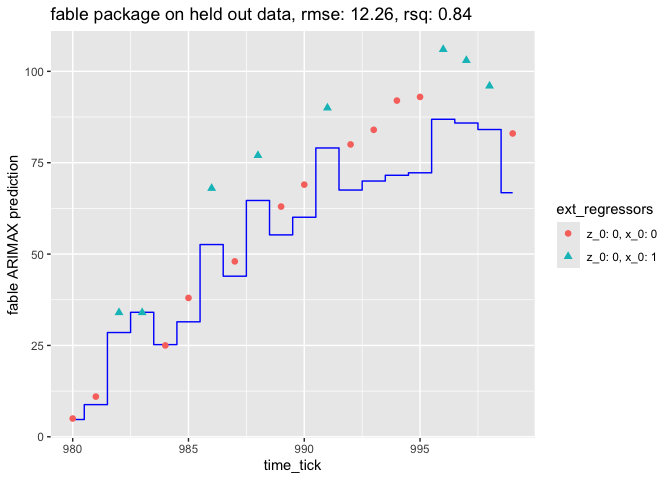
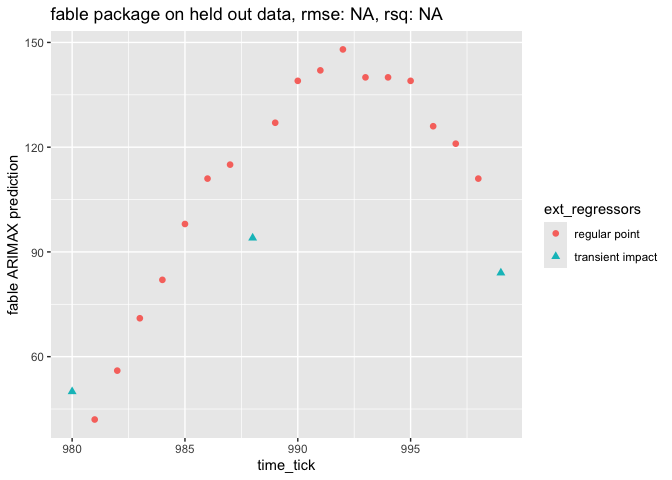
update R code

diff --git a/TimeSeries/ts_example.md b/TimeSeries/ts_example.md
@@ -29,29 +29,29 @@ model_specification <- fromJSON("generating_params.json")
 model_specification
 ```
 
-    ## $b_auto_0
-    ## [1] 1.280413
+    ## $beta_auto_intercept
+    ## [1] 2.127637
     ## 
-    ## $b_imp_0
+    ## $effect_shift
     ## [1] -10.4
     ## 
-    ## $b_auto
-    ## [1]  1.975377 -1.000000
+    ## $beta_auto
+    ## [1]  1.972723 -1.000000
     ## 
-    ## $b_z
-    ## [1] 14.2
+    ## $beta_durable
+    ## [1] 9.2
     ## 
-    ## $b_x
-    ## [1] 16.1
+    ## $beta_transient
+    ## [1] 19.1
     ## 
     ## $generating_lags
     ## [1] 1 2
     ## 
-    ## $modeling_lags
-    ## [1] 1 2
-    ## 
     ## $error_scale
     ## [1] 3.2
+    ## 
+    ## $n_step
+    ## [1] 1000
 
 What we hope is to find `b_x_dur ~ b_z` and `b_x_imp ~ b_x`.
 
@@ -168,15 +168,17 @@ of these regressors is enough for it to model the entire system
 # https://otexts.com/fpp3/regarima.html
 d_train <- read.csv('d_train.csv', stringsAsFactors = FALSE)
 d_test <- read.csv('d_test.csv', stringsAsFactors = FALSE)
+```
 
+``` r
 fable_model <- (
   d_train %>%
     tsibble(index=time_tick) %>%
     model(
       ARIMA(y ~ 
               1  # turn off must specify constant warning
-            + z_0   # external regressor (can also use xreg(z_0))
-            + x_0   # external regressor (can also use xreg(x_0))
+            + x_durable_0   # external regressor (can also use xreg(x_durable_0))
+            + x_transient_0   # external regressor (can also use xreg(x_transient_0))
             + pdq(2, 0, 2)   # AR=MA=2, I=0
             + PDQ(0, 0, 0)   # turn off seasonality (help(ARIMA))
             )
@@ -188,51 +190,51 @@ coef(fable_model)
     ## # A tibble: 7 × 6
     ##   .model                            term  estimate std.error statistic   p.value
     ##   <chr>                             <chr>    <dbl>     <dbl>     <dbl>     <dbl>
-    ## 1 ARIMA(y ~ 1 + z_0 + x_0 + pdq(2,… ar1     1.92      0.0114  168.     0        
-    ## 2 ARIMA(y ~ 1 + z_0 + x_0 + pdq(2,… ar2    -0.954     0.0112  -85.2    0        
-    ## 3 ARIMA(y ~ 1 + z_0 + x_0 + pdq(2,… ma1    -0.996     0.0321  -31.0    9.55e-148
-    ## 4 ARIMA(y ~ 1 + z_0 + x_0 + pdq(2,… ma2     0.319     0.0323    9.88   5.37e- 22
-    ## 5 ARIMA(y ~ 1 + z_0 + x_0 + pdq(2,… z_0    -0.0135    1.05     -0.0128 9.90e-  1
-    ## 6 ARIMA(y ~ 1 + z_0 + x_0 + pdq(2,… x_0    14.8       0.275    54.0    8.40e-296
-    ## 7 ARIMA(y ~ 1 + z_0 + x_0 + pdq(2,… inte…  43.4       2.03     21.4    2.33e- 83
+    ## 1 "ARIMA(y ~ 1 + x_durable_0 + x_t… ar1      1.93    0.00985   196.    0        
+    ## 2 "ARIMA(y ~ 1 + x_durable_0 + x_t… ar2     -0.965   0.00972   -99.2   0        
+    ## 3 "ARIMA(y ~ 1 + x_durable_0 + x_t… ma1     -0.928   0.0323    -28.7   3.09e-132
+    ## 4 "ARIMA(y ~ 1 + x_durable_0 + x_t… ma2      0.271   0.0310      8.72  1.15e- 17
+    ## 5 "ARIMA(y ~ 1 + x_durable_0 + x_t… x_du…   -0.487   0.842      -0.579 5.63e-  1
+    ## 6 "ARIMA(y ~ 1 + x_durable_0 + x_t… x_tr…   17.0     0.346      49.2   3.70e-267
+    ## 7 "ARIMA(y ~ 1 + x_durable_0 + x_t… inte…   78.3     2.72       28.8   7.12e-133
 
 Notice we recovered good estimates of the autoregressive terms `b_auto`
-(`ar1`, `ar2`), transient external effect coefficient `b_x` (`x_0`). We
-did not get a good estimate of the durable external effect coefficient
-`z_0` (`b_z`), so we did not infer how changes in this variable affect
-results.
+(`ar1`, `ar2`), transient external effect coefficient `b_x`
+(`x_transient_0`). We did not get a good estimate of the durable
+external effect coefficient `x_durable_0` (`b_z`), so we did not infer
+how changes in this variable affect results.
 
 We would be able to forecast, as the auto-regressive terms dominate. We
-would not be able to plan, as we don’t have a good estimate of `z_0`
-(`b_z`).
+would not be able to plan, as we don’t have a good estimate of
+`x_durable_0` (`b_z`).
 
 ``` r
 model_specification
 ```
 
-    ## $b_auto_0
-    ## [1] 1.280413
+    ## $beta_auto_intercept
+    ## [1] 2.127637
     ## 
-    ## $b_imp_0
+    ## $effect_shift
     ## [1] -10.4
     ## 
-    ## $b_auto
-    ## [1]  1.975377 -1.000000
+    ## $beta_auto
+    ## [1]  1.972723 -1.000000
     ## 
-    ## $b_z
-    ## [1] 14.2
+    ## $beta_durable
+    ## [1] 9.2
     ## 
-    ## $b_x
-    ## [1] 16.1
+    ## $beta_transient
+    ## [1] 19.1
     ## 
     ## $generating_lags
     ## [1] 1 2
     ## 
-    ## $modeling_lags
-    ## [1] 1 2
-    ## 
     ## $error_scale
     ## [1] 3.2
+    ## 
+    ## $n_step
+    ## [1] 1000
 
 ``` r
 preds <-  (
@@ -260,7 +262,7 @@ rmse <- sqrt(mean((d_test[['y']] - d_test[['fable ARIMAX prediction']])**2))
 ) 
 ```
 
-![](ts_example_files/figure-gfm/unnamed-chunk-5-1.png)<!-- -->
+![](ts_example_files/figure-gfm/unnamed-chunk-6-1.png)<!-- -->
 
 ## Fitting with an external regressor using the forecast package
 
@@ -280,7 +282,7 @@ d_test <- read.csv('d_test.csv', stringsAsFactors = FALSE)
 forecast_model <- Arima(
   ts(d_train[['y']], start=d_train[['time_tick']][1]), 
   order=c(2, 0, 2), 
-  xreg=ts(d_train[, c('z_0', 'x_0')], start=d_train[['time_tick']][1])
+  xreg=ts(d_train[, c('x_durable_0', 'x_transient_0')], start=d_train[['time_tick']][1])
   )
 
 forecast_model
@@ -290,19 +292,19 @@ forecast_model
     ## Regression with ARIMA(2,0,2) errors 
     ## 
     ## Coefficients:
-    ##          ar1      ar2      ma1     ma2  intercept      z_0      x_0
-    ##       1.9250  -0.9542  -0.9960  0.3194    43.3823  -0.0135  14.8366
-    ## s.e.  0.0114   0.0112   0.0321  0.0323     2.0318   1.0531   0.2749
+    ##          ar1      ar2      ma1     ma2  intercept  x_durable_0  x_transient_0
+    ##       1.9335  -0.9648  -0.9282  0.2705    78.3360      -0.4873        17.0466
+    ## s.e.  0.0099   0.0097   0.0323  0.0310     2.7168       0.8420         0.3463
     ## 
-    ## sigma^2 = 33.1:  log likelihood = -3104.38
-    ## AIC=6224.76   AICc=6224.91   BIC=6263.86
+    ## sigma^2 = 60.54:  log likelihood = -3400.48
+    ## AIC=6816.97   AICc=6817.11   BIC=6856.07
 
 Notice the recovered durable effect coefficient is way too low.
 
 ``` r
 preds <- forecast(
   forecast_model, 
-  xreg=ts(d_test[, c('z_0', 'x_0')], 
+  xreg=ts(d_test[, c('x_durable_0', 'x_transient_0')], 
   start=d_test[['time_tick']][1]))
 d_test['forecast ARIMAX'] <- as.numeric(preds$mean)
 
@@ -327,4 +329,4 @@ rmse <- sqrt(mean((d_test[['y']] - d_test[['forecast ARIMAX']])**2))
 ) 
 ```
 
-![](ts_example_files/figure-gfm/unnamed-chunk-7-1.png)<!-- -->
+![](ts_example_files/figure-gfm/unnamed-chunk-8-1.png)<!-- -->
